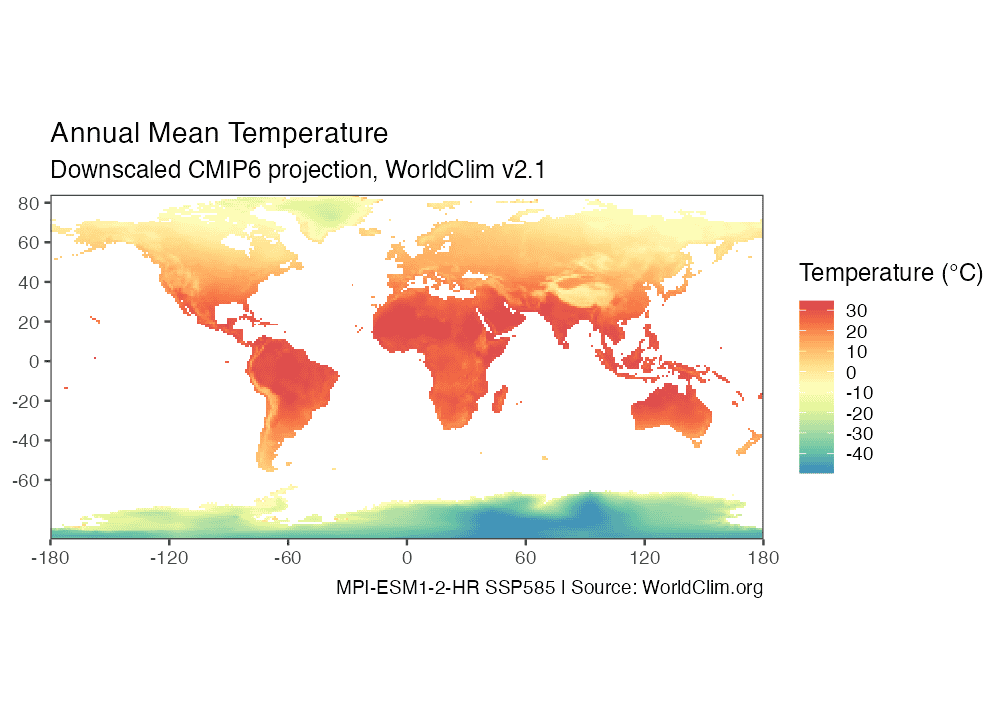
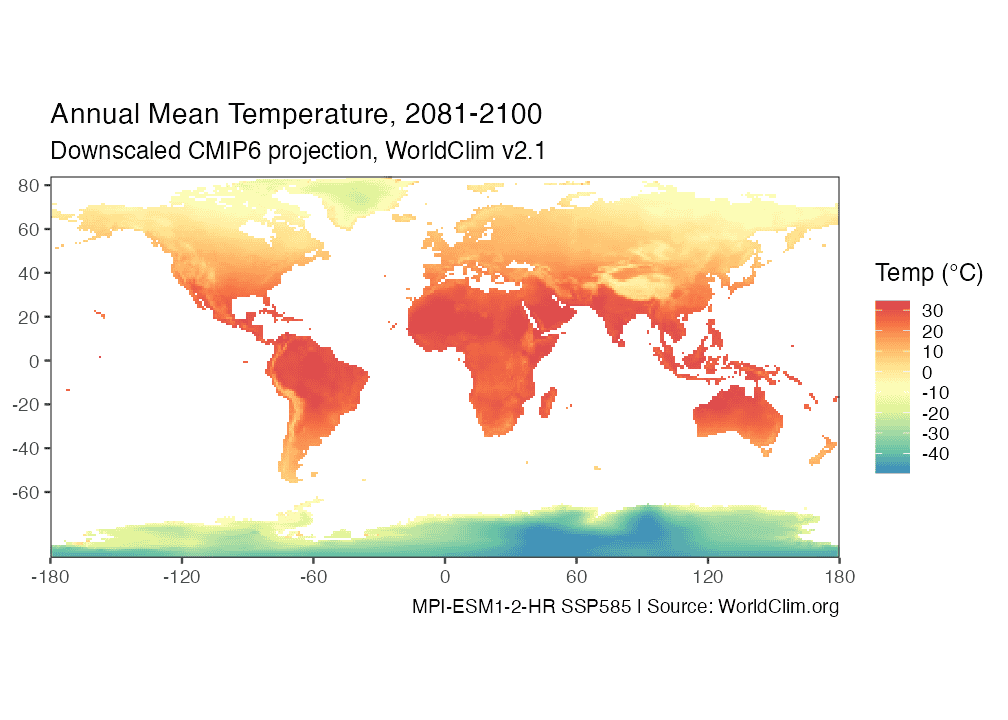
Update NEWS and DESCRIPTION

diff --git a/README.md b/README.md
@@ -216,8 +216,15 @@ Retrieve GWIS wildfire data and plot:
 ``` r
 usfires <- get_fires_area(place='USA', year = 2026)
 plot_fires_area(usfires)
+```
+
+<img src="man/figures/README-fires-1.png" alt="" width="60%" />
+
+``` r
 plot_fires_area(usfires, style = 'weekly')
 ```
+
+<img src="man/figures/README-fires-2.png" alt="" width="60%" />
 
 Retrieve NOAA/ESRL CH<sub>4</sub> Globally averaged mean data and plot:
 

diff --git a/cran-comments.md b/cran-comments.md
@@ -2,7 +2,7 @@
 * local macOS install, R 4.6.1
 * GitHub Actions: ubuntu-latest (oldrel-1, release, and devel), macOS-latest (release), windows-latest (release) 
 
-## Internet connectivity
+## Internet connectivity checks
 Since version 0.9.0 fail gracefully if internet connections do not succeed
 Since version 0.7.2 tests for url-specific connectivity before initiating transfers to conform with CRAN rules.
 

diff --git a/NEWS.md b/NEWS.md
@@ -80,3 +80,6 @@
 
 # hockeystick 0.9.2
 * Connectivity checks bug fixes
+
+# hockeystick 1.0.0
+* Add CMIP6 climate projections and anomalies from Worldclim
